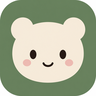
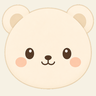
브라우저 탭·즐겨찾기 아이콘을 세나 얼굴로 맞춘다

diff --git a/app/layout.tsx b/app/layout.tsx
@@ -30,16 +30,18 @@ export const metadata: Metadata = {
     languages: { "ko-KR": "/" },
     types: { "application/rss+xml": "/rss.xml" },
   },
+  manifest: "/site.webmanifest",
   icons: {
     icon: [
-      { url: MASCOT_FAVICON.png48, type: "image/png", sizes: "48x48" },
-      { url: MASCOT_FAVICON.png96, type: "image/png", sizes: "96x96" },
-      { url: MASCOT_FAVICON.png192, type: "image/png", sizes: "192x192" },
-      { url: MASCOT_FAVICON.ico, sizes: "48x48" },
+      { url: `${MASCOT_FAVICON.png48}?v=sena`, type: "image/png", sizes: "48x48" },
+      { url: `${MASCOT_FAVICON.png96}?v=sena`, type: "image/png", sizes: "96x96" },
+      { url: `${MASCOT_FAVICON.png192}?v=sena`, type: "image/png", sizes: "192x192" },
+      { url: `${MASCOT_FAVICON.ico}?v=sena`, sizes: "48x48" },
       { url: MASCOT_MARK.src, type: "image/png", sizes: "512x512" },
     ],
+    shortcut: [{ url: `${MASCOT_FAVICON.png48}?v=sena`, type: "image/png" }],
     apple: [
-      { url: "/apple-touch-icon.png", sizes: "180x180" },
+      { url: "/apple-touch-icon.png?v=sena", sizes: "180x180" },
       { url: MASCOT_MARK.src, sizes: "180x180" },
     ],
   },
